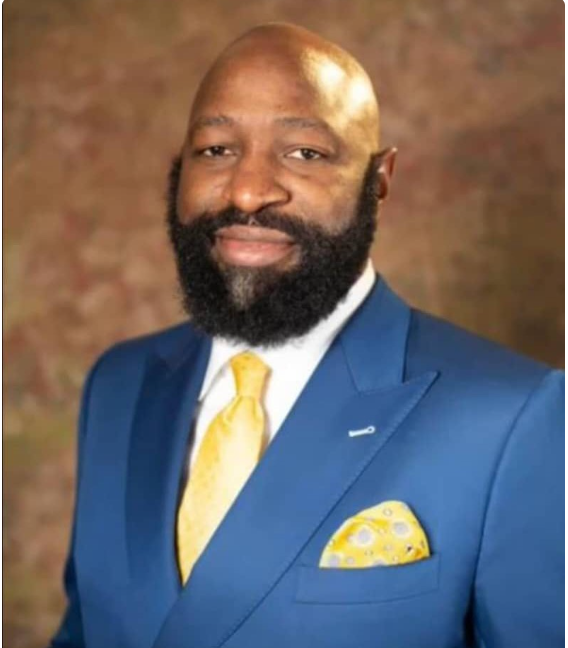
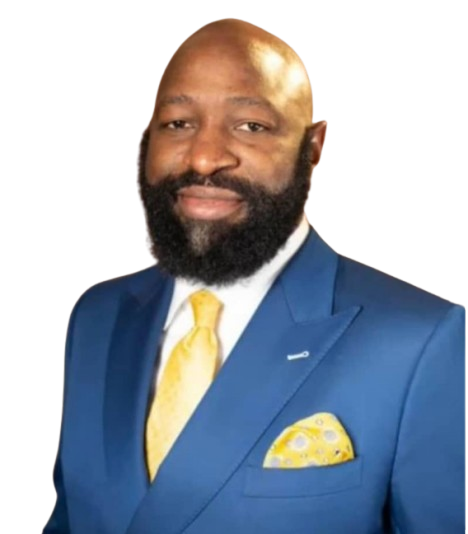
fix: directors and contact email

diff --git a/src/pages/Leadership.jsx b/src/pages/Leadership.jsx
@@ -1,8 +1,11 @@
 import React, { useState, useEffect } from "react";
 import chairman from '../assets/images/director/Alhaji sambo.png';
 import director1 from '../assets/images/director/SMA.png';
-import director2 from '../assets/images/director/Hajiya Garba.jpg';
+import director2 from '../assets/images/director/Hajiya Garba.png';
 import director3 from '../assets/images/director/Babatunde.png';
+import director4 from '../assets/images/director/Gwarzo.png';
+import director5 from '../assets/images/director/MKAhmadbg.png';
+
 import '../components/leadership.css';
 import bg2 from "../assets/images/bimaworld.png";
 
@@ -38,7 +41,7 @@ const directors = [
       "In addition to her achievements in the hospitality industry, she holds key leadership positions in other thriving enterprises. She serves as a Director at Bima Mines Ltd. and Chemcraft Nigeria Ltd., companies actively engaged in mining and industrial services. Her involvement at the executive level reflects her deep understanding of business operations, strategic planning, and cross-sectoral management.",
       "With a broad portfolio, she brings a wealth of hands-on experience and business acumen."
     ]
-  },/*
+  },
   {
     id: 4,
     name: "Mr. Babatunde Richards Olomolehin",
@@ -51,20 +54,27 @@ const directors = [
       "His dual expertise as both developer and operator offers him a deep understanding of market dynamics, enabling him to deliver projects that are not only structurally and financially sound but also thoughtfully designed for optimal user experience."
     ]
   },
-  
+  {
     id: 5,
-    name: "Director Name",
-    title: "Development Director",
-    image: "",
-    bio: "Biography goes here."
+    name: "Mounir Haliru Gwarzo",
+    title: "Director",
+    image: director4,
+    bio: [ "With over three decades of experience, Mounir Haliru Gwarzo is a distinguished leader in Nigeria’s financial and capital market sector. He holds a degree in Economics from Bayero University Kano, with further studies in Development Finance and an MBA in Management and Leadership from UK institutions.",
+      "Mounir has held key roles across major financial institutions and served as Director-General of the Securities and Exchange Commission (2015–2020), where he led transformative reforms that enhanced market transparency, investor confidence, and regulatory efficiency.",
+      "He is a Fellow of the Chartered Institute of Stockbrokers and an alumnus of globally renowned institutions including INSEAD and Saïd Business School, University of Oxford. His career reflects a strong commitment to corporate governance, institutional development, and sustainable financial growth.",
+    ]
   },
   {
     id: 6,
-    name: "Director Name",
-    title: "Strategy Director",
-    image: "",
-    bio: "Biography goes here."
-  */
+    name: "Muhammad Kabiru Ahmad, OON",
+    title: "Director",
+    image: director5,
+    bio: [ "With over four decades of distinguished experience, Muhammad Kabiru Ahmad is a respected leader in Nigeria’s financial services and public sector landscape. He is best known as the pioneer Chief Executive Officer of the National Pension Commission (PenCom), where he led the establishment and growth of Nigeria’s pension industry into a multi-trillion-naira sector.",
+      "Ahmad has held several high-level roles across regulatory and financial institutions, including serving as a Bank Supervisor at the Nigeria Deposit Insurance Corporation and as an IMF-appointed Bank Supervisor at the Central Bank of Liberia. He also served as a Departmental Director and Board member of the Federal Inland Revenue Service, contributing significantly to public financial administration and policy.",
+      "He currently serves as Chairman and board member across multiple leading organizations, including Credent Capital & Advisory Ltd, UltraMed Hospital, MTN Nigeria Plc, and Flour Mills of Nigeria Plc. His governance expertise extends to national assignments, where he chaired the committee that produced the Nigerian Code of Corporate Governance (2018) and continues to contribute to policy and development initiatives across both federal and subnational levels.",
+      "Ahmad is widely recognized for his commitment to transparency, institutional development, and the promotion of strong corporate governance practices, consistently driving initiatives that support sustainable economic growth and nation-building.",
+    ]
+  },  
 ];
 
 function Leadership() {

diff --git a/src/pages/Team.jsx b/src/pages/Team.jsx
@@ -1,9 +1,7 @@
 import React, { useState, useEffect } from "react";
-import hrH from "../assets/images/team/staff/Tosin.jpg";
-import operationsH from "../assets/images/team/staff/Nura.jpg";
-import architectH from "../assets/images/team/staff/ibusi.jpg";
+import hrH from "../assets/images/team/staff/Tosin.png";
+import operationsH from "../assets/images/team/staff/Nura.png";
 import coo from "../assets/images/team/staff/joshua.jpg";
-import financeH from "../assets/images/team/staff/Saadu.jpg";
 import '../components/leadership.css';
 import bg2 from "../assets/images/bimaworld.png";
 const directors = [
@@ -25,41 +23,16 @@ const directors = [
     bio:["QS. Sani Nura Bello serves as the Head of Operations and Lead Quantity Surveyor at the company. He holds a Bachelor of Technology (B.Tech, Hons) degree in Quantity Surveying from the Federal University of Technology, Minna. In his role, Nura is responsible for overseeing all contractual aspects of construction projects.",
       "He manages project costs, ensuring that each project is delivered within budget and on schedule.",
       ] 
-  },/*
+  },
   {
     id: 3,
-    name: "Architect Ibisu Ikpesu Ephraim",
-    title: "Head, Architectural Team",
-    image: architectH,
-    bio: [ "Architect Ibisu Ikpesu Ephraim brings over nine years of experience in architectural design, project planning, and construction supervision",
-      "He specializes in CAD-based 3D visualizations and has successfully delivered detailed designs for residential developments including blocks of flats, terraces, and duplexes. His portfolio also includes the remodeling, restoration, and renovation of various buildings.",
-    ]
-  }*/
-  {
-    id: 4,
     name: "Dr. Joshua Olorunkiya",
     title: "Chief Operating Officer",
     image: coo,
     bio: [ "Dr. Joshua is a seasoned Quantity Surveyor and Project Manager with over 15 years of experience across the construction industry in Nigeria and abroad.",
       "He holds a PhD in Civil Engineering (Construction Project Management) from the University of Auckland, New Zealand, and a Master’s in Construction Contract Management (Distinction) from the University of Technology Malaysia. He also earned a B.Sc."
     ]
-  },/*
-  {
-    id: 5,
-    name: "Saadu Kamaldeen Adebayo",
-    title: "Finance Manager",
-    image: financeH,
-    bio: ["Saadu Kamaldeen Adebayo is a Chartered Accountant and Certified Procurement Professional with over 10 years of experience in finance, treasury, budget management, and procurement, with a strong focus on the public sector.",
-      "Currently, he serves as the Finance Manager at Bima Shelter Limited, where he leads initiatives in budget planning, vendor management, internal controls, and process optimization."
-    ]
-  },/*
-  {
-    id: 6,
-    name: "Director Name",
-    title: "Strategy Director",
-    image: "",
-    bio: "Biography goes here."
-  }*/
+  },
 ];
 
 function Team() {
@@ -115,7 +88,7 @@ function Team() {
         <div className="hero-divider"></div>
       </div>
 
-      <div className="scroll-indicator">
+      <div>
         <span></span>
       </div>
     </section>

diff --git a/src/components/leadership.css b/src/components/leadership.css
@@ -34,7 +34,7 @@
   background: white;
   padding: 20px;
   text-align: center;
-  border-radius: 10px;
+  border-radius: 7px;
   cursor: pointer;
   transition: 0.3s ease;
   box-shadow: 0 10px 25px rgba(0,0,0,0.05);
@@ -50,16 +50,13 @@
 }
 
 .director-image {
-  width: 100%;
-  max-width: 140px;
-  height: auto;
-  aspect-ratio: 1 / 1;
+  width: 145px;
+  height: 145px;
   object-fit: cover;
-  border-radius: 50%;
+  object-position: top center;
+  border-radius: 8px;
   display: block;
   margin: 0 auto 15px;
-  object-fit: cover;
-  border-radius: 50%;
 }
 
 .director-card h3 {
@@ -68,6 +65,7 @@
 
 .director-card p {
   color: #777;
+  text-justify: auto;
 }
 
 /* Modal */
@@ -111,28 +109,35 @@
 
 .modal-header {
   display: flex;
-  gap: 30px;
+  flex-direction: row;
+  gap: 24px;
   align-items: center;
   padding-bottom: 25px;
   margin-bottom: 25px;
-  box-shadow: 0 3px 10px rgba(0,0,0,0.05);
-  border: 2px #032717;
+  border-bottom: 1px solid rgba(3, 39, 23, 0.12);
 }
-.modal-header img{
-  width: 160px;
-  height: 175px;
+
+.modal-header img {
+  width: 120px;
+  height: 140px;
   object-fit: cover;
-  border-radius: 20%;
-  padding: 20px;
+  object-position: top center;
+  border-radius: 8px;
+  flex-shrink: 0;
+  display: block;
+  margin: 0;
 }
-
-
+.modal-title {
+  display: flex;
+  flex-direction: column;
+  justify-content: center;
+}
 .modal-title h2 {
   margin-bottom: 5px;
 }
 
 .modal-title p {
-  color: #777;
+  color: #777; 
 }
 
 .modal-bio p {
@@ -279,18 +284,26 @@
     grid-template-columns: repeat(2, 1fr);
   }
 
-  .modal-header {
-    flex-direction: column;
-    text-align: center;
-  }
+.modal-header {
+  flex-direction: column;
+  align-items: center;
+  text-align: center;
+}
+.modal-header img {
+  width: 110px;
+  height: 130px;
+}
 }
 
 @media (max-width: 600px) {
   .directors-grid {
     grid-template-columns: 1fr;
   }
+  .directors-grid{
+    width: 75%;
+  }
   .director-image {
-    max-width: 120px;
+    max-width: 160px;
   }
 
   .modal-container {
@@ -298,7 +311,7 @@
   max-height: 85vh;
   }
   .modal-bio p {
-    text-align: left;
+    text-align: justify;
   }
   .modal-content{
   width: 90%;

diff --git a/src/components/Proplist.jsx b/src/components/Proplist.jsx
@@ -160,18 +160,6 @@ const properties = [
   },  
   {
     id: 10,
-    title: 'Park Springs III',
-    image: property8,
-    type: 'villa',
-    route: '/coming-soon',
-    subtitle: 'Maitama, Abuja',
-    availability: '8 & 6 bedroom fully detached villas currently under construction',
-    bedrooms: 7,
-    bathrooms: 8,
-    badge: 'FEATURED',
-  },
-  {
-    id: 11,
     title:'Lake Chad',
     image: property7,
     type: 'terrace',

diff --git a/src/communities/comstyle.css b/src/communities/comstyle.css
@@ -530,7 +530,7 @@
 .pv-cta__btn:hover {
   background: var(--pv-green-light);
   transform: translateY(-2px);
-  box-shadow: 0 8px 24px rgb(184, 150, 46);
+  box-shadow: 0 8px 24px rgb(255, 255, 255);
 }
 
 /* ════════════════════════════════════════════════
